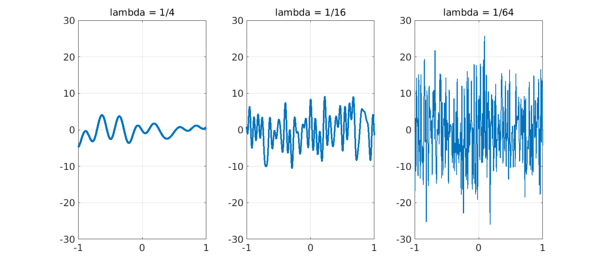
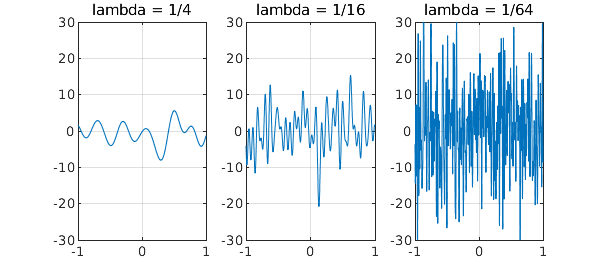
updating WhiteNoiseParadox

diff --git a/examples/ode-random/img/WhiteNoiseParadox.html b/examples/ode-random/img/WhiteNoiseParadox.html
@@ -13,9 +13,8 @@ For example, here are trajectories of three random functions in Chebfun with par
 for k = 1:3
   subplot(1,3,k)
   lambda = 1/4^k;
-  plot(randnfun(lambda,'norm'),'linewidth',5-k)
-  set(gca,'fontsize',24)
-  title(['lambda = 1/' int2str(4^k)],'fontsize',24)
+  plot(randnfun(lambda,'big'),'linewidth',1-.2*k)
+  title(['lambda = 1/' int2str(4^k)])
   grid on, ylim([-30 30])
 end</pre><img src="img/WhiteNoiseParadox_01.png" class="figure" alt="">
 

diff --git a/examples/ode-random/WhiteNoiseParadox.html b/examples/ode-random/WhiteNoiseParadox.html
@@ -67,9 +67,8 @@
 for k = 1:3
   subplot(1,3,k)
   lambda = 1/4^k;
-  plot(randnfun(lambda,'norm'),'linewidth',5-k)
-  set(gca,'fontsize',24)
-  title(['lambda = 1/' int2str(4^k)],'fontsize',24)
+  plot(randnfun(lambda,'big'),'linewidth',1-.2*k)
+  title(['lambda = 1/' int2str(4^k)])
   grid on, ylim([-30 30])
 end</pre>
 

diff --git a/index.html b/index.html
@@ -269,5 +269,5 @@ plot(minx(1),minx(2),'.w')
     <script type="text/javascript" src="/js/config.js"></script>
     <script type="text/javascript" src="/js/jquery.flexslider-min.js"></script>
   </body>
-<!-- Compiled on Wednesday, 28 July 2021 at 10:02. -->
+<!-- Compiled on Wednesday, 28 July 2021 at 10:19. -->
 </html>

diff --git a/examples/ode-random/WhiteNoiseParadox.m b/examples/ode-random/WhiteNoiseParadox.m
@@ -24,9 +24,8 @@ rng(1)
 for k = 1:3
   subplot(1,3,k)
   lambda = 1/4^k;
-  plot(randnfun(lambda,'big'),'linewidth',5-k)
-  set(gca,'fontsize',24)
-  title(['lambda = 1/' int2str(4^k)],'fontsize',24)
+  plot(randnfun(lambda,'big'),'linewidth',1-.2*k)
+  title(['lambda = 1/' int2str(4^k)])
   grid on, ylim([-30 30])
 end
 
